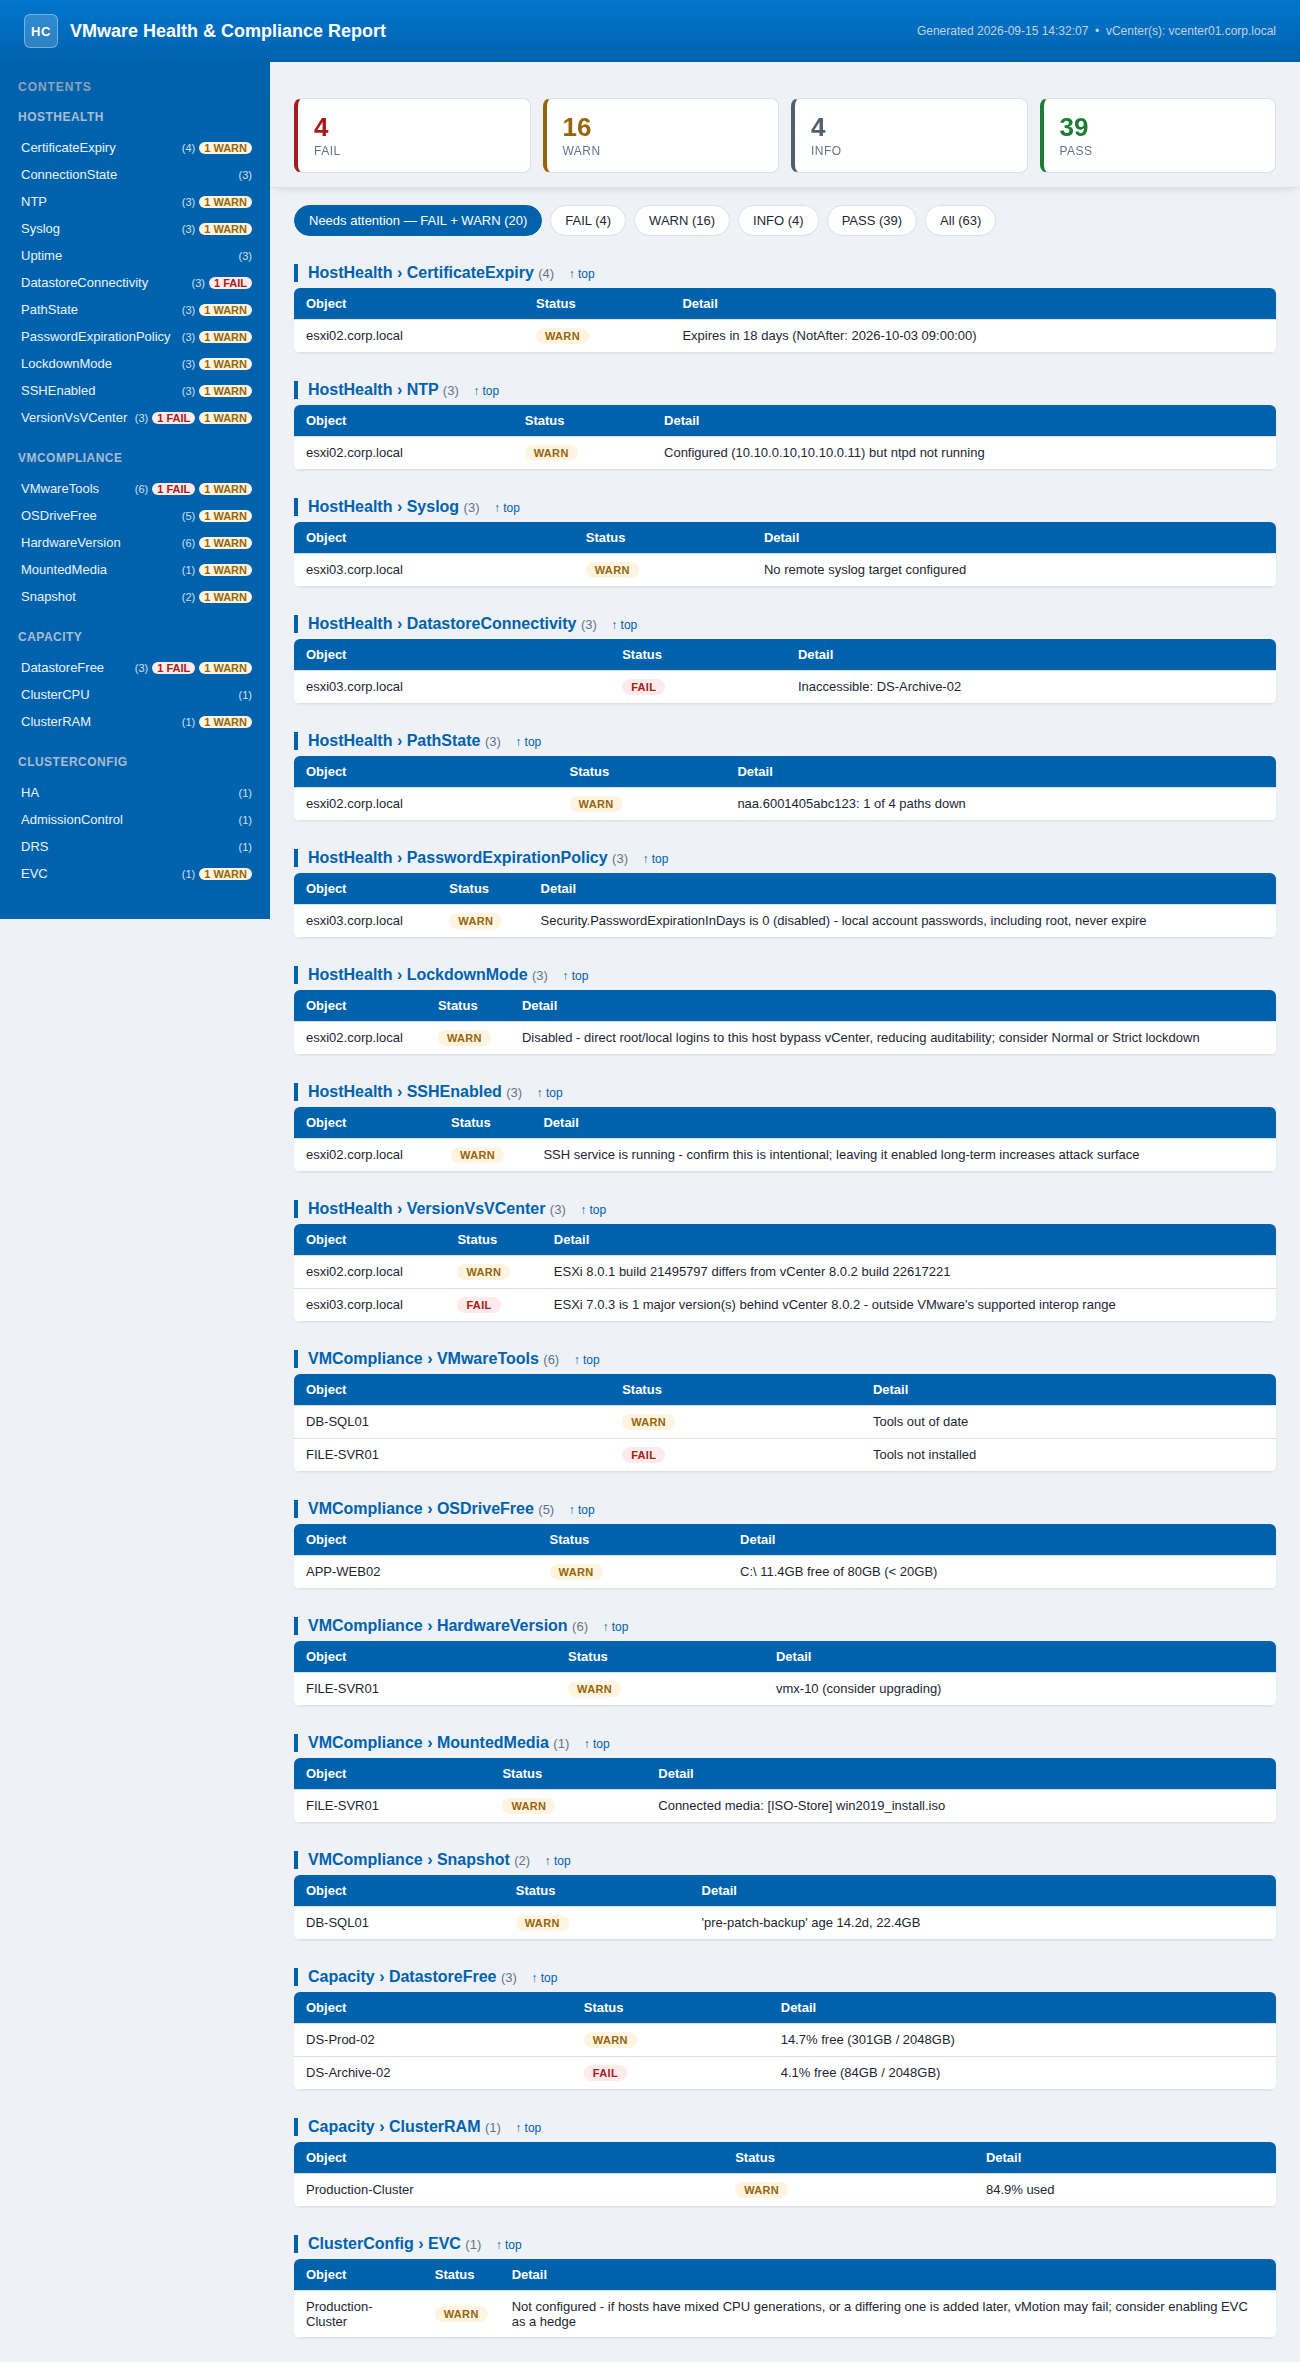
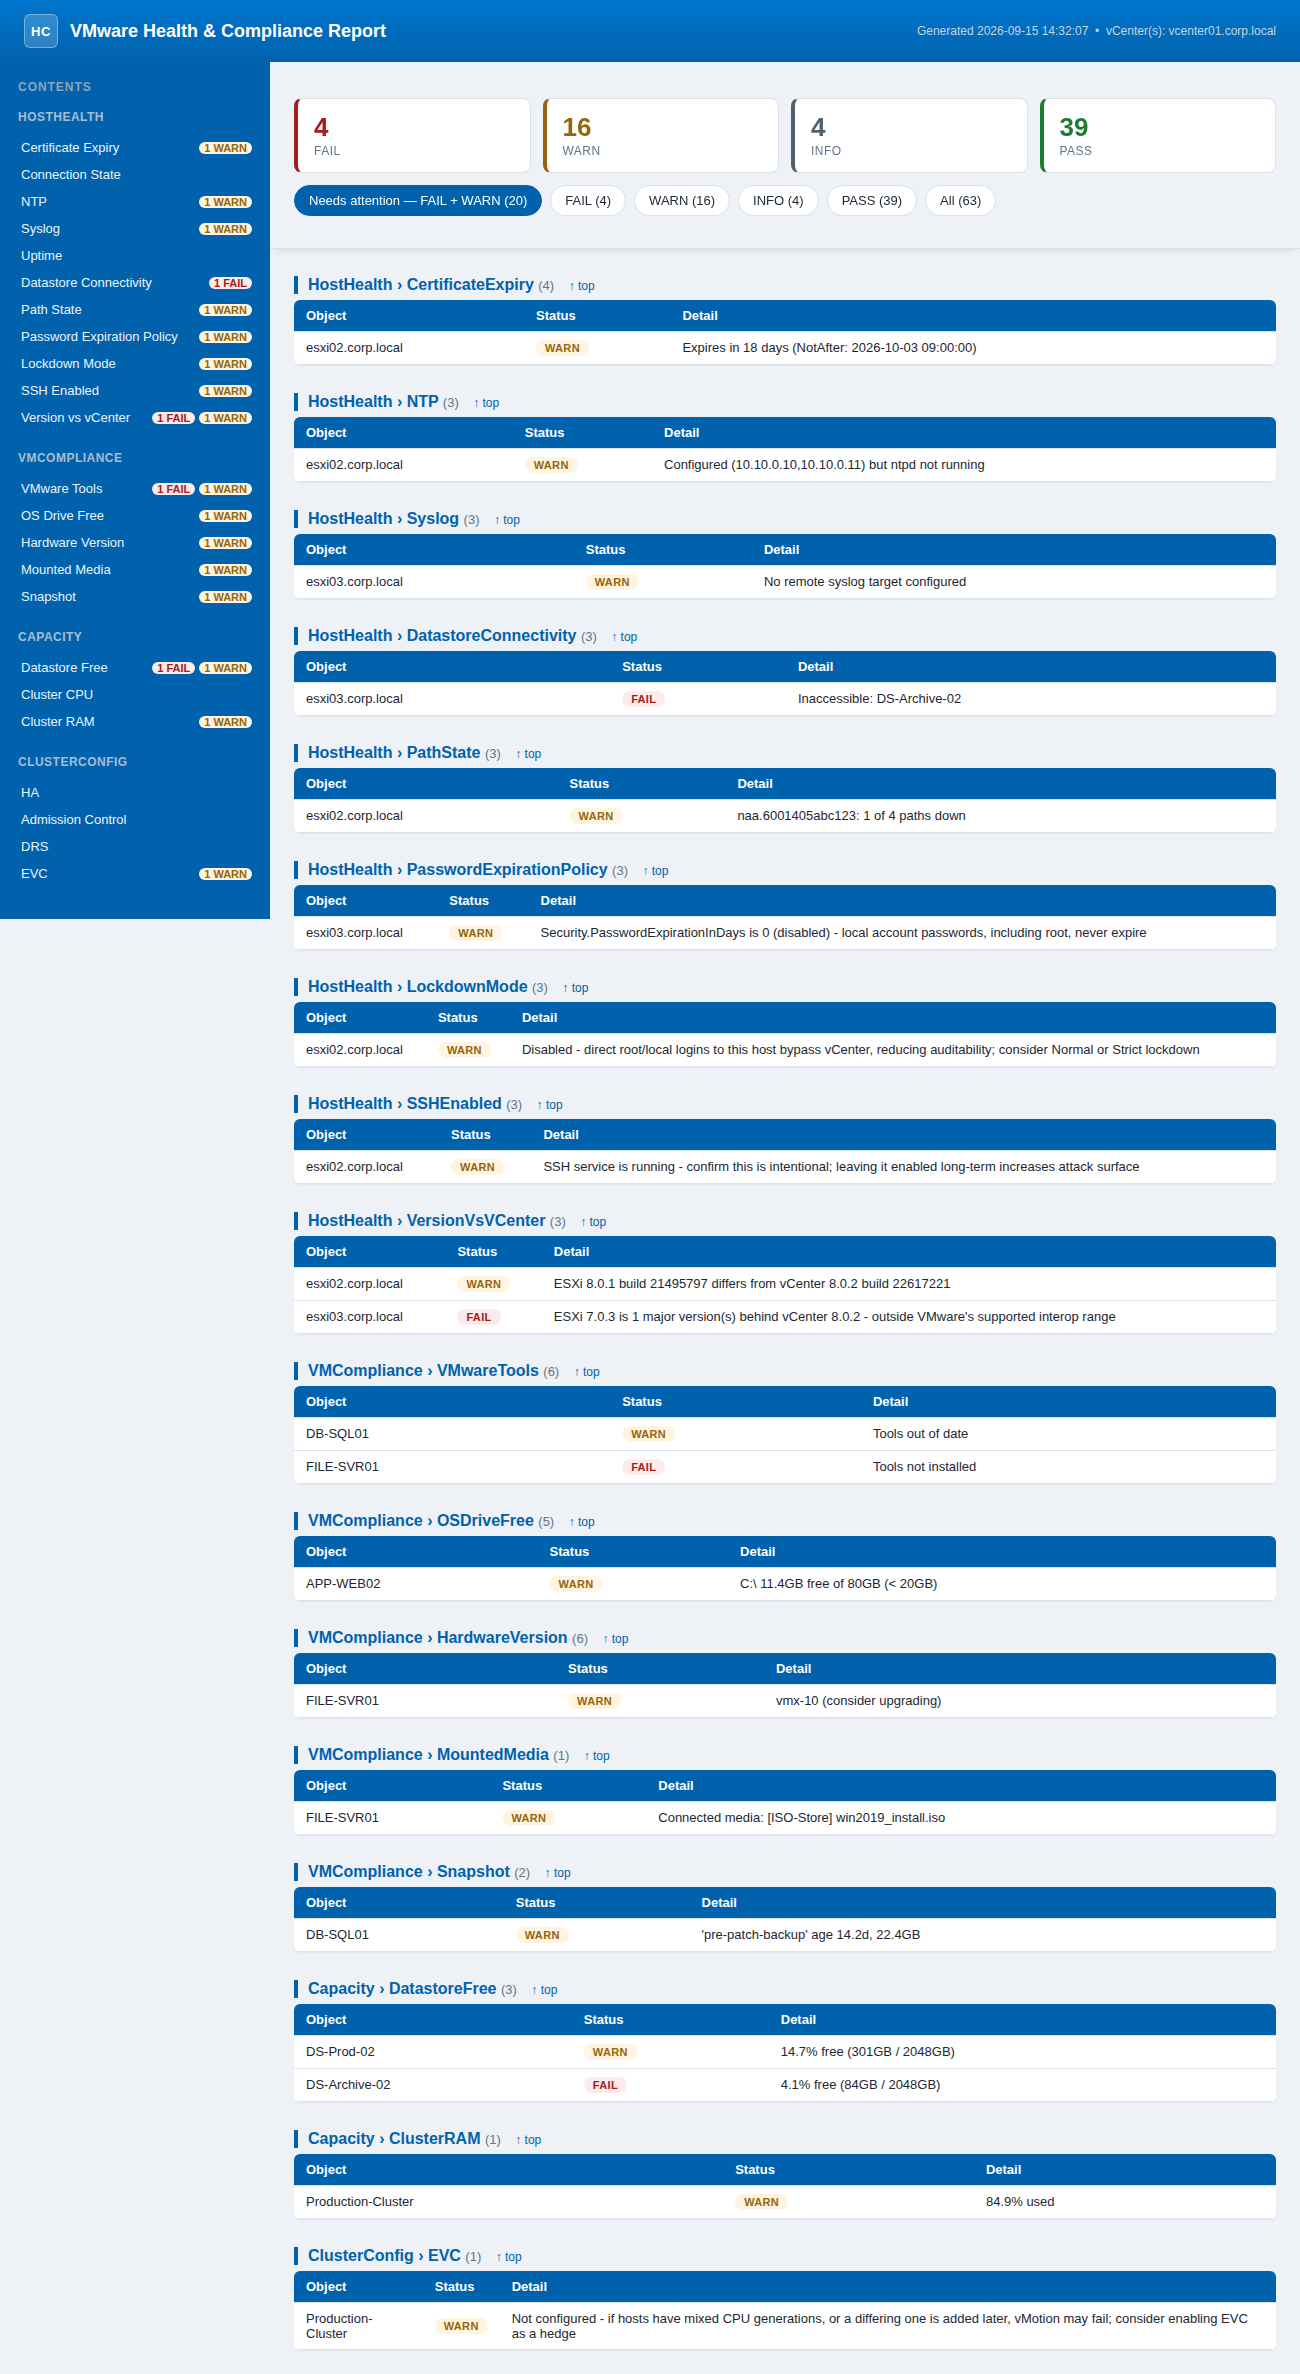
Reports: fix sidebar jump dumping the whole report, and tidy the sidebar
Four things reported against the HTML report.

1. Clicking a sidebar entry dumped every row into the main area. The jump
   handler called apply('all'), which dropped the whole report out of
   "Needs attention" - so a click meant to navigate to one section instead
   replaced a 20-row view with all 63. It now reveals ONLY the section being
   jumped to, and only when the current filter is hiding it; the active
   filter is left alone. Confirmed: filter stays "Needs attention" and the
   visible row count goes 20 -> 23, not 20 -> 63.

2. Freezing the tiles left the filter buttons behind. The tiles froze but
   .filters scrolled away underneath them, taking the FAIL/WARN/INFO/PASS
   counts with it. Both rows now sit in one sticky .toolbar, so the whole
   control strip stays on screen. h2 scroll-margin-top goes 118px -> 172px
   to clear the taller bar; verified three jumps land at 172 against a
   toolbar bottom of 162.

   (The stat tiles' own numbers were never missing - they render at rest
   and while scrolled, correct colours and non-zero height. The filter
   buttons scrolling away is what matched the report.)

3. Dropped the per-section (N) count from the sidebar. The FAIL/WARN badges
   stay, since those are the signal for where the problems are.

4. Sidebar check names are now spaced - 'Certificate Expiry', not
   'CertificateExpiry' - so the narrow column wraps at word boundaries
   instead of breaking mid-word. Section headings keep the raw name, which
[…]

diff --git a/README.md b/README.md
@@ -255,9 +255,9 @@ while `-Command` parses arguments properly but collapses any non-zero script exi
 powershell.exe -Command "& { .\HealthCheck\Invoke-VMwareHealthCheck.ps1 -VCenter vc1,vc2; exit $LASTEXITCODE }"
 ```
 
-The HTML report uses a **dashboard-style layout** — a Dell-blue header bar matched to the iDRAC 10 console, with the sidebar, table headers and links all drawn from that same banner blue, and status pill badges (`PASS`/`WARN`/`FAIL`/`INFO`), similar in feel to a Dell iDRAC or OpenManage console. Color-coded **stat tiles** at the top (Fail / Warn / Info / Pass counts) are clickable and double as the severity filter — and they **stay frozen at the top of the page** like a spreadsheet header row, so the filter stays reachable from anywhere in a long report instead of forcing a scroll back up — alongside the same **`Needs attention`, `FAIL`, `WARN`, `INFO`, `PASS`, `All`** filter buttons — the report opens pre-filtered to `FAIL` + `WARN` (what needs fixing), so you can drill straight to the problems instead of scrolling past everything that passed.
+The HTML report uses a **dashboard-style layout** — a Dell-blue header bar matched to the iDRAC 10 console, with the sidebar, table headers and links all drawn from that same banner blue, and status pill badges (`PASS`/`WARN`/`FAIL`/`INFO`), similar in feel to a Dell iDRAC or OpenManage console. Color-coded **stat tiles** at the top (Fail / Warn / Info / Pass counts) are clickable and double as the severity filter. The tiles and the filter buttons together **stay frozen at the top of the page** like a spreadsheet header row, so every count and filter stays reachable from anywhere in a long report instead of forcing a scroll back up — shown alongside the same **`Needs attention`, `FAIL`, `WARN`, `INFO`, `PASS`, `All`** filter buttons — the report opens pre-filtered to `FAIL` + `WARN` (what needs fixing), so you can drill straight to the problems instead of scrolling past everything that passed.
 
-Results are also broken into **per-check sections** (e.g. *VMware Tools*, *Hardware Version*, *Mounted ISOs*, *Snapshots*, *NTP*, *Datastore Free*), each in its own table. The left **sidebar** lists every section grouped by category with per-section counts and `FAIL`/`WARN` badges — the **whole row is the link**, name and count and badges alike, so clicking the number works the same as clicking the title and jumps straight to that table. Severity filtering and section navigation work together: under a filter, sections with no matching rows are hidden automatically, and clicking a sidebar link reveals the target. (The CSV stays complete and unfiltered for trending; open it in Excel and use AutoFilter on the Status column for the same effect.)
+Results are also broken into **per-check sections** (e.g. *VMware Tools*, *Hardware Version*, *Mounted ISOs*, *Snapshots*, *NTP*, *Datastore Free*), each in its own table. The left **sidebar** lists every section grouped by category, with `FAIL`/`WARN` badges marking where the problems are — the **whole row is the link**, name and badges alike. Check names are spaced out there (`Certificate Expiry`, not `CertificateExpiry`) so the narrow column wraps at word boundaries; section headings keep the raw name, matching the CSV. Severity filtering and section navigation work together: under a filter, sections with no matching rows are hidden automatically, and clicking a sidebar entry whose section is hidden reveals **just that section** — it does not drop the whole report back to `All`. (The CSV stays complete and unfiltered for trending; open it in Excel and use AutoFilter on the Status column for the same effect.)
 
 **Sample report** (fictional lab data):
 
